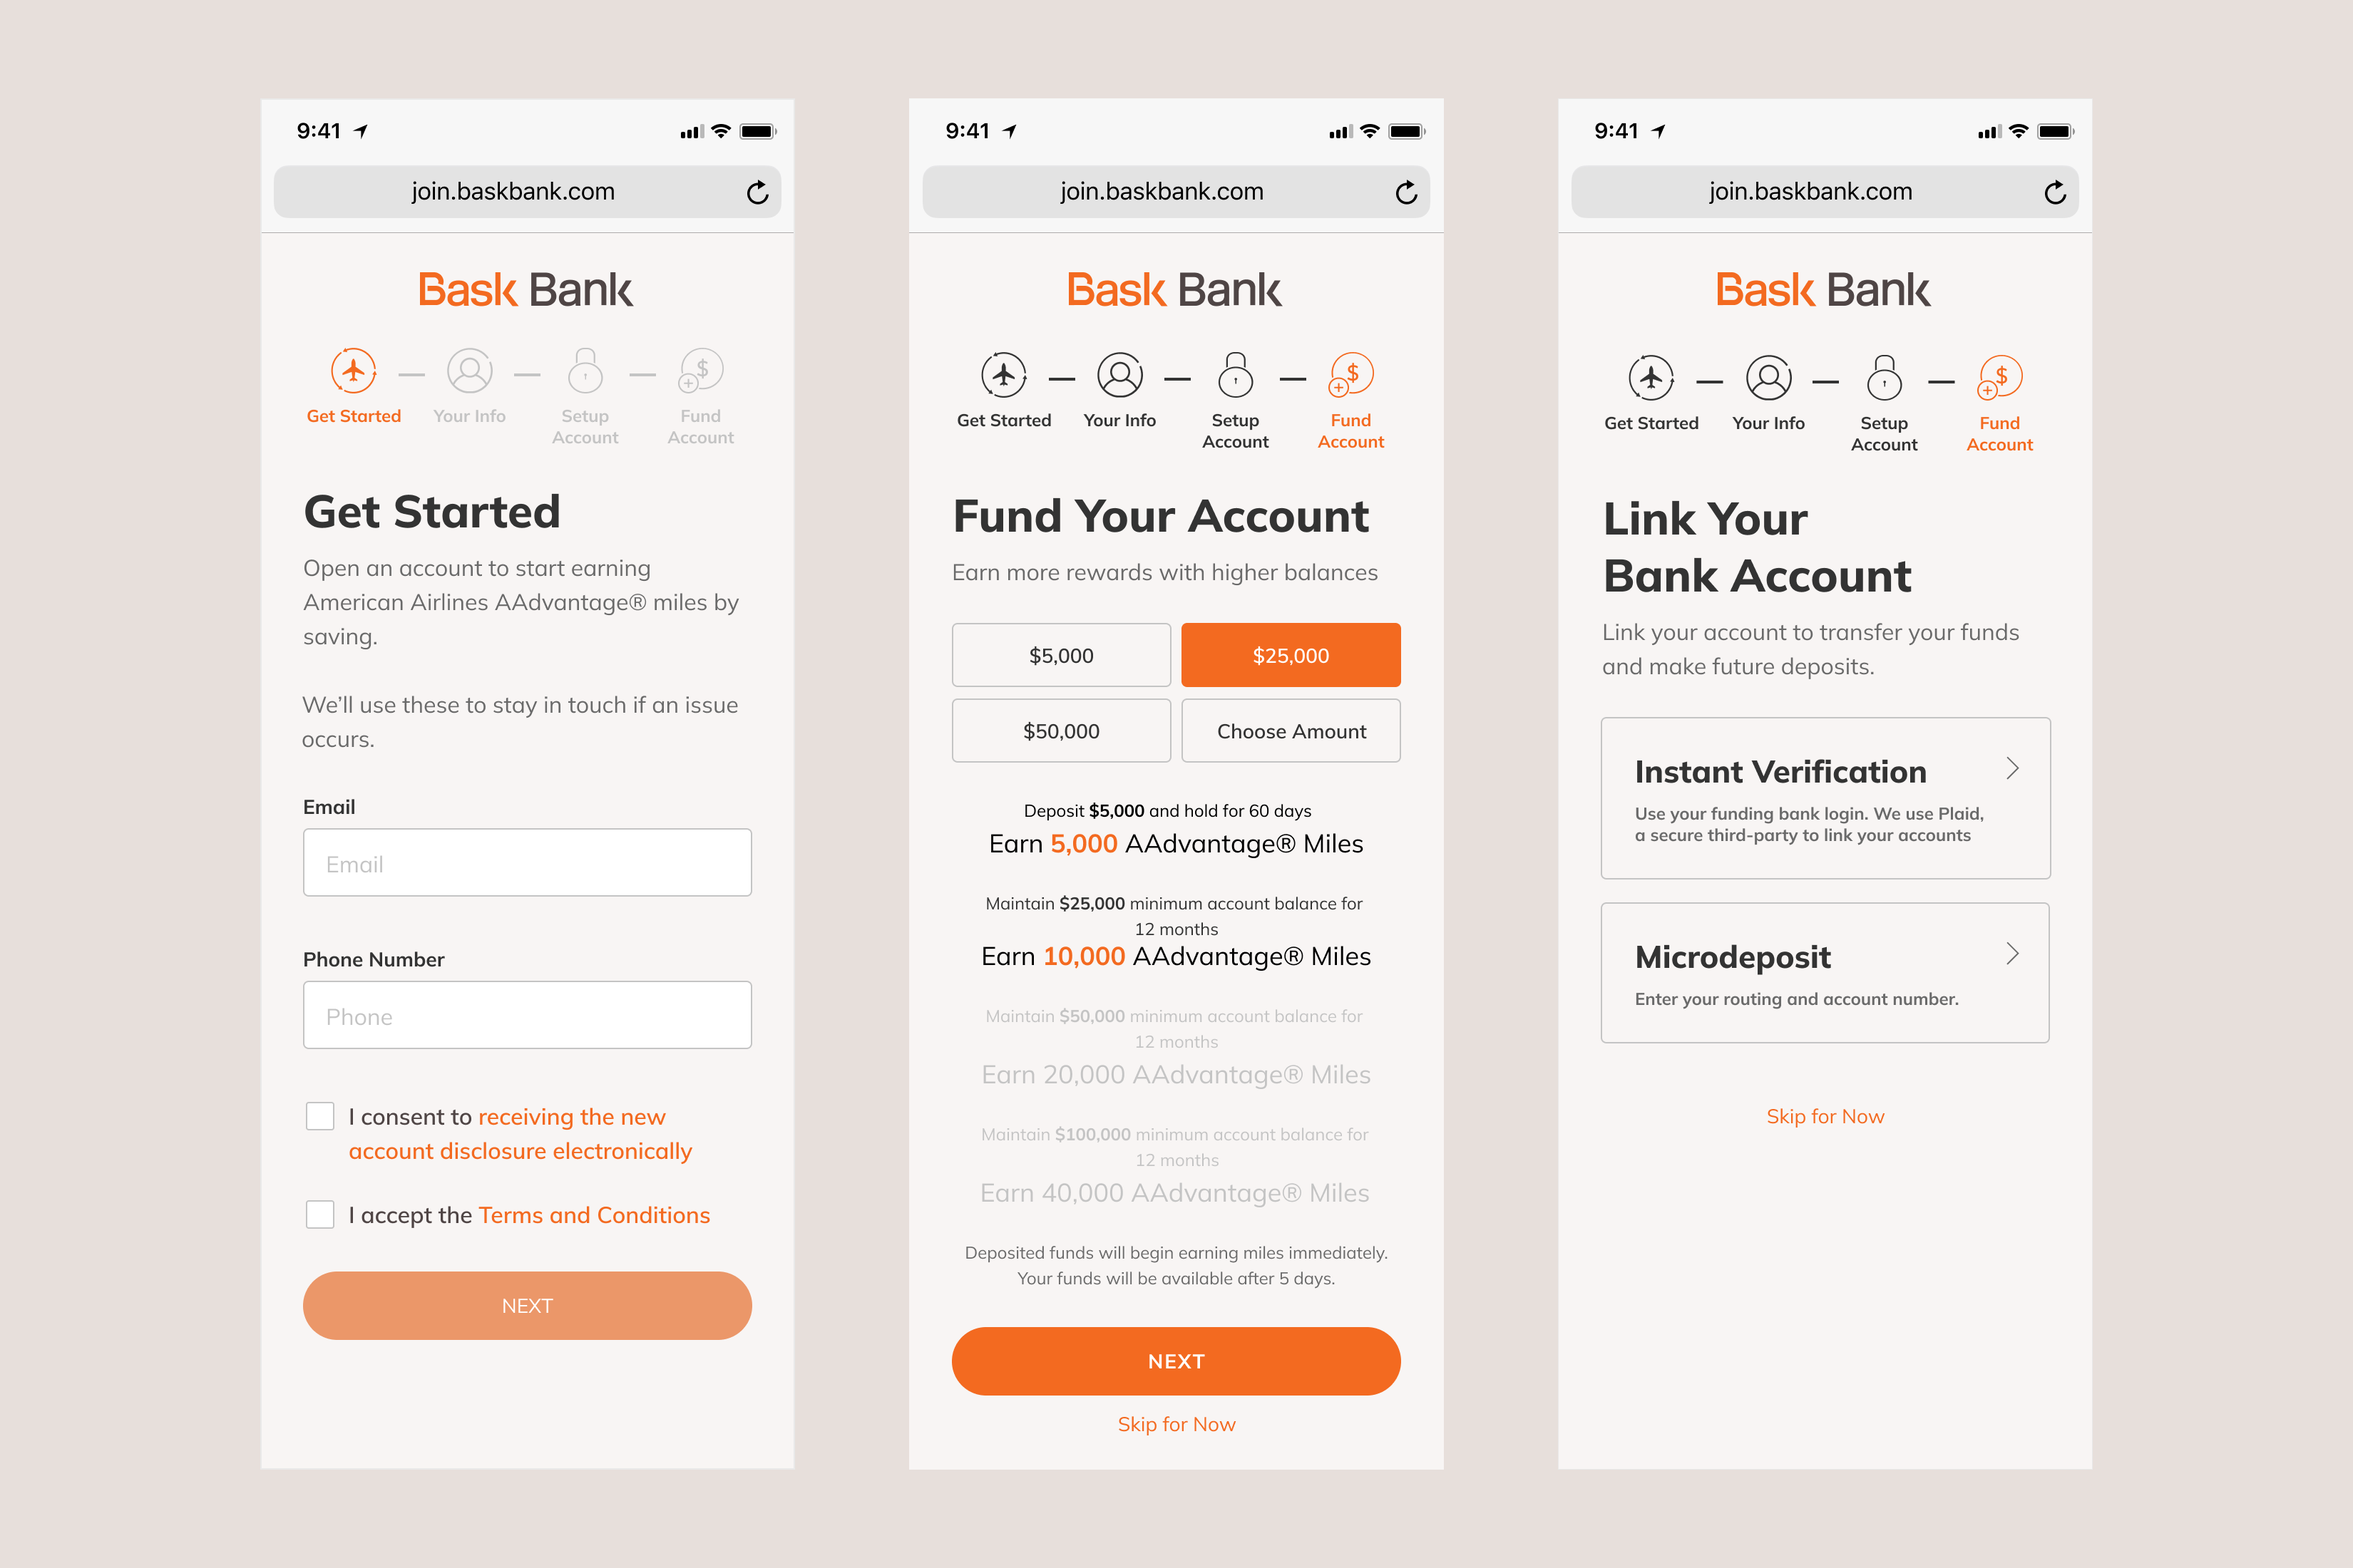
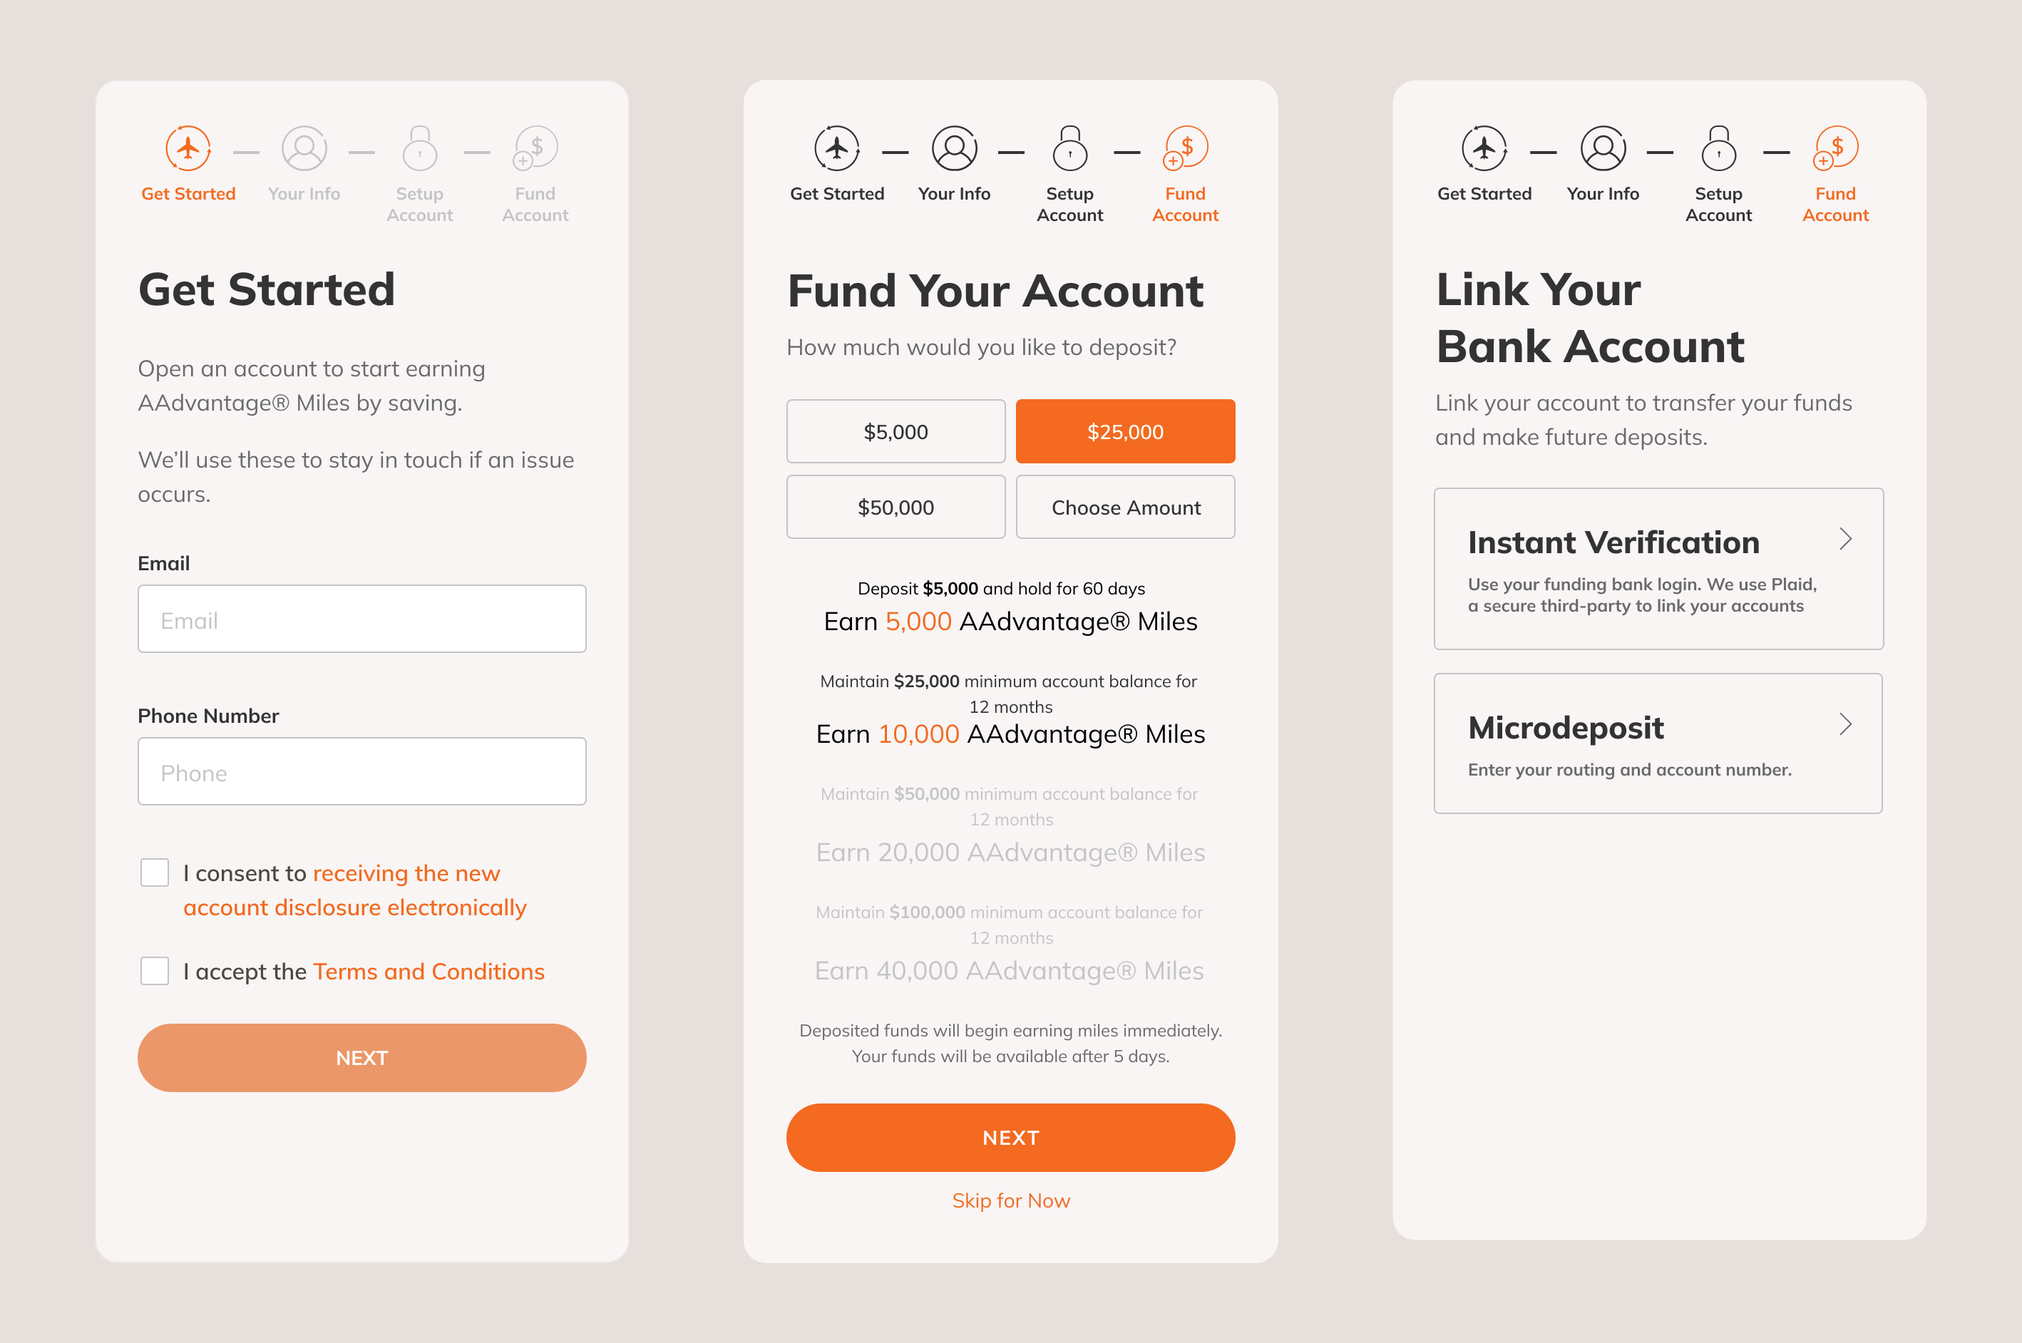
updated bank case study

Changed region(s): [[0.031, 0.0616, 0.9619, 0.9544]]

diff --git a/work/travel-bank/index.html b/work/travel-bank/index.html
@@ -41,69 +41,75 @@
         </a>
     </div>
 
-    <main class="flex flex-col bg-white prose prose-stone prose-lg text-pretty md:pb-0 md:px-0 py-6 px-6">
+    <main class="flex flex-col bg-white prose prose-stone prose-lg text-pretty md:pb-8 md:px-0 py-6 px-6">
         <div id="hero">
             <div class="font-semibold text-sm uppercase text-stone-700 mb-2">Financial Services</div>
-            <h1 class="not-prose mb-8 text-stone-900">Building Trust to Reduce Onboarding Drop-Offs</h1>
-            <img class="rounded-lg my-2" src="../../assets/img/travel-bank-hero.png">
+            <h1 class="not-prose mb-8 text-stone-900">Building Trust to Improve Sign-Up Conversion</h1>
+            <img class="rounded-lg my-2" src="../../assets/img/travel">
 
         </div>
         <div id="overview" class="">
-            <p>In 2019 Texas Capital Bank (TCB), a regional bank with over $40B in managed assets, had just launched
-                Bask Bank, a new “digital attacker” bank that offered a travel-oriented savings account that accrued
-                American Airlines miles instead of interest.</p>
-            <p>While the launch was driving prospects to the website, they were dropping off at high rates while
-                onboarding flow. And for customers that complete onboarding? Their initial deposits were below target.I
+            <p>In 2019, a regional bank with over $40B in managed assets, had just launched
+                a new digital attacker bank that offered a travel-oriented savings account that accrued
+                airline miles instead of interest.</p>
+            <p>While the launch was driving prospects to the website, they were dropping off at high rates once they
+                entered the sign-up flow. I
                 heard about these issues during a sprint review and volunteered to help, joining the Product Manager and
                 Technical Lead.</p>
-            <p>I led an effort to research drop-off drivers and redesign onboarding to reduce drop-offs and improve
-                initial deposits. We had 2 key goals:</p>
-            <ul>
-                <li>How might we reduce onboarding drop-offs?</li>
-                <li>How might we improve average initial deposits?</li>
-            </ul>
-            <p>In X months, we won approval of the redesign from leadership and implemented the first wave of
-                enhancements. Leadership reported a reduction in drop-off rates and a bonus reduction in customer
-                service calls. I also contributed to create a data-driven design culture by creating an onboarding
-                drop-offs dashboard for step-by-step visibility and serve as a source-of-truth for my team and
-                leadership.</p>
+            <p>I led the effort to research drop-off drivers and redesign onboarding to improve sign-up converstion by
+                targeting drop-offs.
+            <p>I created a metrics dashboard for step-by-step visibility into drop-offs to serve as a source-of-truth
+                for my
+                team and
+                leadership. I designed a new end-to-end flow which improved conversion by 4% and also reduced
+                customer
+                service calls as a bonus.</p>
         </div>
 
         <div id="research">
             <h2 class="">Uncovering Drop-Off Drivers</h2>
-            <p>I couldn't talk to customers directly so we worked with proxies. I interviewed a Customer Support Lead,
-                reviewed call logs, audited the current-state, and analyzed other leading “digital attacker”
-                competitors. We found:</p>
+            <p>I spoke to customer proxies and reviewed documents to understand why prospects might drop-off. I
+                interviewed a Customer Support
+                Lead,
+                reviewed call logs, audited the current-state, and analyzed other leading digital attacker
+                competitors.</p>
+            <blockquote class="text-xl border-l-emerald-800">"Is this a real bank? I’ve never heard of them
+                before”
+                <figcaption>Customer Support Lead, summarizing customer calls</figcaption>
+            </blockquote>
             <ol id="painpoints">
-                <li>
-                    <h4 class="">Bask had Little Brand Credibility</h4>
-                    <p>Customers were interested enough to click to through the site and into onboarding, but Bask
-                        didn't have the same leash as other digital-first banks. Customers carried doubt in the back of
-                        their minds. To make up for this, Bask needed to look and feel like it was on the same tier as
-                        its competitor digital-native bank such as Chime and Marcus to appear more credible.
-                    </p>
-                    <blockquote class="text-xl border-l-emerald-800">"Is this a real bank? I’ve never heard of them
-                        before”
-                        <figcaption>Customer Support Lead, recapping customer calls</figcaption>
-                    </blockquote>
-                </li>
                 <li>
                     <h4 class="">Jarring Transition Between Website and Onboarding</h4>
                     <p>The website was modern and polished, but onboarding had a completely different, outdated
-                        experience. It felt like being taken to a dingy backroom to finish account creation after seeing
-                        a nice showroom.</p>
+                        experience. It felt like being taken to a dingy backroom to finish your sign-up after seeing
+                        a nice showroom. The bank's low brand recognition meant that they had to earn user trust through
+                        the process rather than assuming it from the start.</p>
                 </li>
                 <li>
                     <h4 class="">Asking for Deposits Too Soon</h4>
                     <p>The current-state tried to move too fast. It asked users to commit to an initial deposit too
-                        early in the flow, before login credentials and before a funding bank was set. The thought
-                        process was that Bask needed to capture the deposit as soon as possible, but this spooked
+                        early in the flow, before login credentials and before a funding bank was set. The current
+                        thought
+                        process was that bank needed to capture the deposit as soon as possible, but this spooked
                         customers who needed more time to get comfortable.
                     </p>
                 </li>
-
             </ol>
+            <h3>Metrics</h3>
+            <figure>
+                <img class="rounded-lg" src="../../assets/img/onboarding-funnel.png">
+                <figcaption>Drop-offs by onboarding step. Diagonal striped bar represents the number of users that
+                    dropped-off in the previous step
+                </figcaption>
+            </figure>
 
+            <p>The client could see how many entered sign-up and how many accounts were created, but didn't have
+                visibility
+                into drop-offs at each step in onboarding. I created a funnel chart to track progress within onboarding
+                so
+                my team and leadership could also track drop-offs at a step-by-step level to understand where users were
+                dropping off the most - where we might make the biggest impact.</p>
+        </div>
         </div>
 
         </div>
@@ -111,10 +117,15 @@
         <div id="redesign">
             <h2 class="">Building User Trust to Reduce Drop-Offs</h2>
             <p>I designed a rework of onboarding to help customers feel more comfortable and reduce drop-offs. And for
-                deposits, the more trust built, the more users would feel depositing at the start. To facilitate
+                deposits, the more trust built, the more users would feel comfortable depositing. To facilitate
                 conversations with engineering team, I redesigned the onboarding process end-to-end to create a north
-                star:
+                star.
             </p>
+            <figure>
+                <img class="rounded-lg" src="../../assets/img/travel-bank-prefunding.png">
+                <figcaption>Know Your Customer, Login Creation, and Bank Account Linking steps help users get
+                    comfortable and build trust before asking for an initial deposit</figcaption>
+            </figure>
             <h3>Ease Users In Rather Than Ask for Deposits Upfront</h3>
             <p>Onboarding should build rapport and ease users in by making small asks first to get users comfortable.
                 Asking for a big commitment, a deposit, was scaring some users away. I moved the initial deposit later
@@ -128,10 +139,11 @@
                 was possible before deciding on a deposit. In addition, I added an optional step to gather the
                 user's frequent flier # to lean on partner credibility and reduce the likelihood they forget to connect
                 their account later and be unable to receive their miles.</p>
-            <h3>On Brand Onboarding</h3>
+            <h3>Unified Brand Experience</h3>
             <p>The home page and onboarding felt like two completely different companies created them. We needed to make
-                the Bask experience feel as one single entity. I created components to match the visual language of the
-                website and used those to redesign Onboarding to keep consistent between the two.</p>
+                the Bask experience feel as one single entity. I created a Figma design system to match the visual
+                language of the
+                website and used in the new sign-up experience to keep consistent between the two.</p>
             <h3>Transparency </h3>
             <p>Users needed to fill in a larger number of fields to complete onboarding, including a set of Know Your
                 Customer questions. To fight field fatigue and data privacy concerns, I added a short explainer on each
@@ -151,26 +163,17 @@
             </figure>
         </div>
 
-        <h2>Growing Data-Driven Design</h2>
-        <p>I partnered with engineering to implement the first wave of features to build towards the north star I
-            designed. In the first release, we the visual update and reordered onboarding steps. Leadership saw
-            drop-offs fall and encouraged us to continue building a more data-driven approach to drive product
-            decisions.</p>
-        <h3>Building Quantitative and Qualitative Capabilities</h3>
-        <p>Bask could see how many entered onboarding and how many accounts were created, but didn't have visibility
-            into drop-offs at each step in onboarding. I created a funnel chart to track progress within onboarding so
-            my team and leadership could also track drop-offs at a step-by-step level to understand where users were
-            dropping off the most - where we might make the biggest impact. I shared this with Bask leadership as well
-            so they would have the same source-of-truth as my team would.</p>
-        <figure>
-            <img class="rounded-lg" src="../../assets/img/onboarding-funnel.png">
-            <figcaption>Drop-offs by onboarding step. Diagonal striped bar represents the number of users that
-                dropped-off in the previous step
-            </figcaption>
-        </figure>
-        <p>To grow their qualitative capabilities, I researched remote testing platforms and recommended
-            UserTesting.com, which the client licensed. I identified key questions and designed tests to validate new
-            Bask features before launch.</p>
+        <div id="outcomes">
+            <h2>Outcomes</h2>
+            <p>I partnered with engineering to implement the first wave of features to build towards the north star I
+                designed. In the first release, the client released the visual update and reordered onboarding steps.
+                Our changes conversion improve by 6% and continued to support us to continue building a more data-driven
+                approach to drive product
+                decisions. Unfortunately the COVID-19 pandemic reduced travel demand and the new initial deposit screen
+                was never developed.</p>
+            <p>Beyond the design itself, I helped the client grow its data-driven design culture beyond metrics by
+                introducing user testing as a standard practice to
+                validate and refine more complex features before release.</p>
         </div>
     </main>
 

diff --git a/index.html b/index.html
@@ -96,7 +96,7 @@
                 <a id="pointsBank" class="card" href="./work/travel-bank">
                     <img class="object-cover rounded-t-2xl aspect-3/2" src="./assets/img/travel-bank-hero.png"></img>
                     <div id="description" class="flex flex-col gap-4 p-8">
-                        <h2>Building Trust to Reduce Bank Account Sign-Up Drop-Offs</h2>
+                        <h2>Building Trust to Improve Sign-Up Conversion</h2>
                         <p>Using data-driven design to optimize bank account sign-up flow for a digital attacker bank
                             launching a travel-focused savings account
                         </p>

diff --git a/css/tailwind.css b/css/tailwind.css
@@ -1091,6 +1091,18 @@
   .py-8 {
     padding-block: calc(var(--spacing) * 8);
   }
+  .pt-6 {
+    padding-top: calc(var(--spacing) * 6);
+  }
+  .pb-8 {
+    padding-bottom: calc(var(--spacing) * 8);
+  }
+  .pb-12 {
+    padding-bottom: calc(var(--spacing) * 12);
+  }
+  .pb-16 {
+    padding-bottom: calc(var(--spacing) * 16);
+  }
   .text-center {
     text-align: center;
   }
@@ -1347,6 +1359,11 @@
   .md\:pb-0 {
     @media (width >= 48rem) {
       padding-bottom: calc(var(--spacing) * 0);
+    }
+  }
+  .md\:pb-8 {
+    @media (width >= 48rem) {
+      padding-bottom: calc(var(--spacing) * 8);
     }
   }
   .lg\:mb-0 {

diff --git a/work/dental-startup/index.html b/work/dental-startup/index.html
@@ -47,7 +47,7 @@
         </a>
     </div>
 
-    <main class="flex flex-col bg-white prose prose-stone prose-lg text-pretty md:pb-0 md:px-0 py-6 px-6">
+    <main class="flex flex-col bg-white prose prose-stone prose-lg text-pretty md:px-0 pt-6 px-6 pb-16">
         <div id="hero">
             <div class="font-semibold text-sm uppercase text-stone-700 mb-2">Healthcare Startup</div>
             <h1 class="not-prose mb-8 text-stone-900">At-Home Oral Health Testing</h1>
